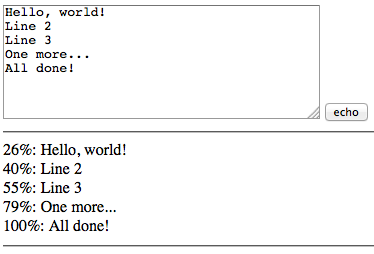
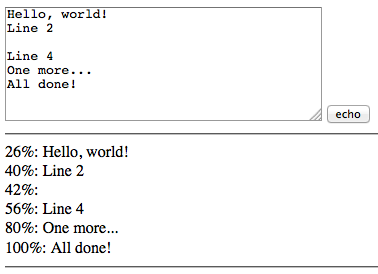
Handle empty lines too

Changed region(s): [[0.0, 0.0, 1.0, 0.937], [0.0, 0.9646, 1.0, 0.9921]]

diff --git a/src/main/webapp/index.html b/src/main/webapp/index.html
@@ -46,7 +46,8 @@
 
 <textarea id="data" rows="8" cols="40">Hello, world!
 Line 2
-Line 3
+
+Line 4
 One more...
 All done!</textarea>
 

diff --git a/README.md b/README.md
@@ -51,9 +51,10 @@ the return of each line of the request about one second after the previous:
 
 ```
 $ curl --no-buffer -X POST --data-binary @test.txt localhost:8080/echo
-26%: Hello, world!
-40%: Line 2
-54%: Line 3
+25%: Hello, world!
+39%: Line 2
+41%: 
+54%: Line 4
 78%: One more...
 98%: All done!
 ```
